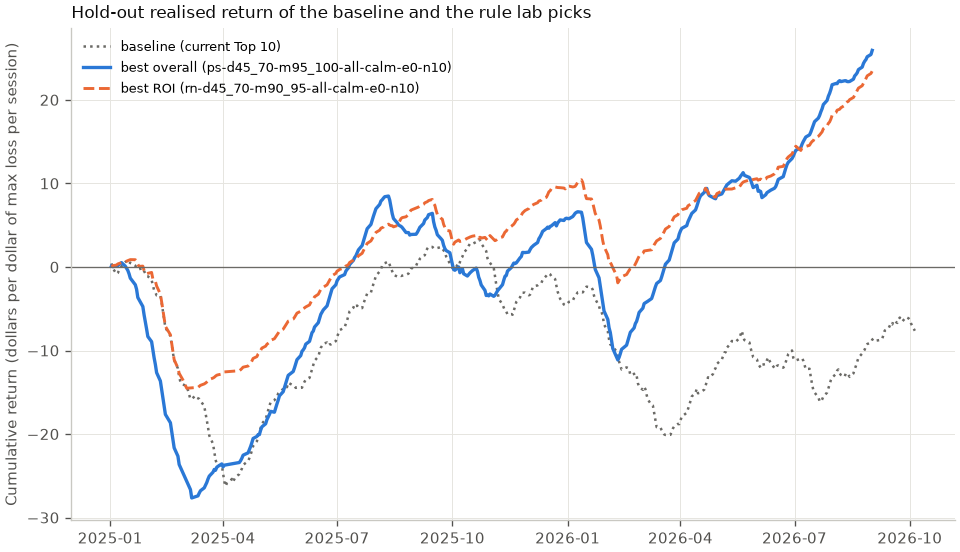
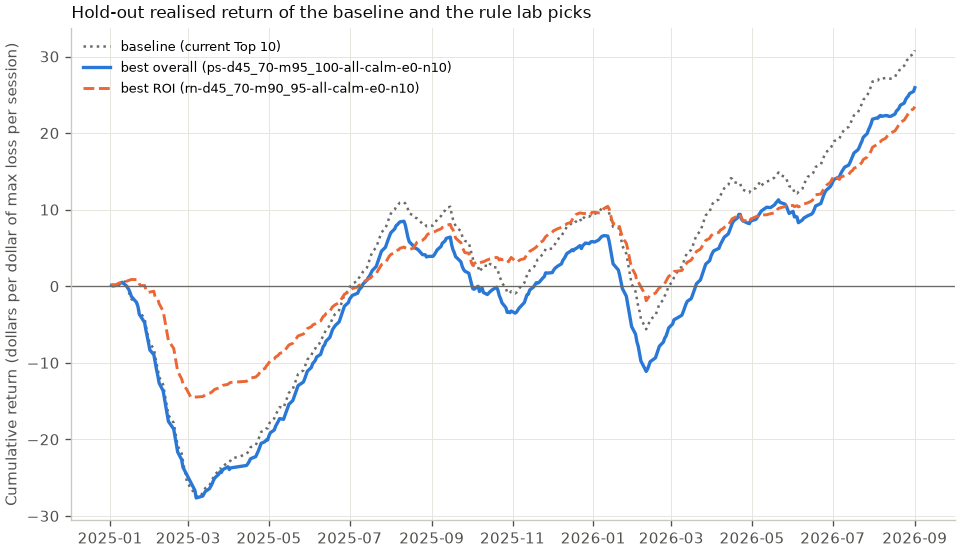
docs(decisions): re-run the entry-rule backtest and the rule lab for the new rule, add ADR 0015
backtest_entry_rule.py states in its intro, from the rule constants, when the rule changed
and why, and calls entry_top10 the live entry ranking. docs/backtest-entry-rule.md is
regenerated on the gold file of 2026-10-19 (read-only): 9,842 out-of-sample trades won
76.2% against 77.5% predicted, +10.3% per trade, -3.05% on capital at risk.
docs/rule-lab.md is regenerated from the existing score cache with the live rule as the
baseline and the previous rule beside it; every rule's numbers are unchanged. ADR 0015
records the decision and the dollar-weighted caveat.

diff --git a/scripts/backtest_entry_rule.py b/scripts/backtest_entry_rule.py
@@ -37,7 +37,7 @@ from oap.analytics.backtest import maps_from_frame
 from oap.analytics.config import DEFAULT_CONFIG
 from oap.analytics.io import QUOTE_SELECT, read_outcomes, read_table
 from oap.analytics.sample import SnapshotStatus
-from oap.analytics.scoring import ENTRY_RULE
+from oap.analytics.scoring import ENTRY_RULE, ENTRY_RULE_SINCE, PREVIOUS_ENTRY_RULE
 from oap.analytics.strategy import (
     SETTLED_COLUMNS,
     backtest_session,
@@ -56,6 +56,12 @@ REQUIRED_TABLES: Final[tuple[str, ...]] = (
     "calibration_snapshot",
 )
 """Tables of the ``gold`` schema the backtest reads."""
+
+PREVIOUS_RULE_RESULT: Final = (
+    "10,458 out-of-sample trades from 2021-01-04 to 2026-10-05 that won 64.1% against 73.0% "
+    "predicted and returned -2.04% on capital at risk"
+)
+"""What this backtest measured for ``PREVIOUS_ENTRY_RULE`` on 2026-10-19, before the change."""
 
 EQUITY_IMAGE: Final = "img/strategy_equity.png"
 PROGRESS_EVERY: Final = 100
@@ -230,10 +236,27 @@ WORST_HEADERS: Final[tuple[str, ...]] = (
 )
 
 STRATEGY_LABELS: Final[dict[str, str]] = {
-    "entry": "the recommendation: `rank_entry` (the rule above)",
+    "entry": "the live entry ranking: `rank_entry` (the rule above)",
     "return": "`rank` (raw annualised return on max loss, without the entry guards)",
     "eligible_all": "every eligible spread, equal weight (the no-selection baseline)",
 }
+
+
+def rule_change_sentence(top_n: int) -> str:
+    """Say when and why the entry rule changed, from the rule constants.
+
+    Args:
+        top_n: Spreads per session of the backtest.
+
+    Returns:
+        One sentence.
+    """
+    return (
+        f"The rule changed on {ENTRY_RULE_SINCE.isoformat()}: until then `entry_top{top_n}` "
+        f'followed "{PREVIOUS_ENTRY_RULE}", which this backtest measured at '
+        f"{PREVIOUS_RULE_RESULT}, so the product moved to the rule above, the rule-lab rule that "
+        "held up on the 2025-2026 hold-out (`docs/rule-lab.md`)."
+    )
 
 
 def _overall_section(summary: BacktestSummary, index: _Index) -> str:
@@ -382,7 +405,8 @@ def render_markdown(summary: BacktestSummary) -> str:
         f"# Strategy backtest: the Top {summary.top_n} rule applied historically\n\n"
         f"`{entry}` takes, on every session, the spreads the live ranking would have listed "
         f'under "Top {summary.top_n} to enter": {ENTRY_RULE} Each session is scored by the '
-        "same code as the latest one, with only the calibration map that existed at the time.\n\n"
+        "same code as the latest one, with only the calibration map that existed at the time. "
+        f"{rule_change_sentence(summary.top_n)}\n\n"
         f"Sessions scored: {fmt_count(summary.sessions)} ({fmt_day(summary.first_session)} to "
         f"{fmt_day(summary.last_session)}); with at least one `{entry}` trade: "
         f"{fmt_count(summary.sessions_with_trades)}. Trades dropped as unsettled: "

diff --git a/tests/scripts/test_backtest_entry_rule.py b/tests/scripts/test_backtest_entry_rule.py
@@ -9,7 +9,7 @@ import pytest
 
 from oap.analytics.backtest import maps_to_frame, walk_forward_maps
 from oap.analytics.config import DEFAULT_CONFIG
-from oap.analytics.scoring import ENTRY_RULE, SPREAD_COLUMNS
+from oap.analytics.scoring import ENTRY_RULE, PREVIOUS_ENTRY_RULE, SPREAD_COLUMNS
 from oap.analytics.strategy import settle_trades, strategy_metrics, strategy_names
 from scripts import backtest_entry_rule as cli
 from tests.analytics.frames import lognormal_quotes, outcomes_frame, synthetic_predictions
@@ -92,6 +92,21 @@ def test_markdown_has_the_sections_in_order_and_states_the_rule() -> None:
     assert ENTRY_RULE in text
     assert "![Cumulative realised return](img/strategy_equity.png)" in text
     assert text.endswith("\n")
+
+
+def test_the_intro_says_when_and_why_the_rule_changed() -> None:
+    text = cli.render_markdown(_summary())
+    intro = text.split("\n\n")[1]
+    sentence = cli.rule_change_sentence(10)
+    assert sentence in intro
+    assert intro.index(ENTRY_RULE) < intro.index(sentence)
+    assert "2026-10-20" in sentence
+    assert PREVIOUS_ENTRY_RULE in sentence
+    assert "64.1%" in sentence
+    assert "`docs/rule-lab.md`" in sentence
+    assert "`entry_top10`" in sentence
+    assert "`entry_top5`" in cli.rule_change_sentence(5)
+    assert "recommend" not in text.lower()
 
 
 def test_the_overall_table_lists_the_three_strategies_with_intervals() -> None:

diff --git a/docs/rule-lab.md b/docs/rule-lab.md
@@ -1,18 +1,19 @@
 # Rule lab: put credit spread selection rules on a hold-out
 
-1,600 candidate rules for choosing put credit spreads were run through the walk-forward backtest of the entry rule. Each was ranked on the dev years (2021-2024) and is reported on the hold-out (2025-2026), which no choice looked at. The baseline is the current Top 10 rule: rank by annualised return on max loss at the mid credit.
+1,600 candidate rules for choosing put credit spreads were run through the walk-forward backtest of the entry rule. Each was ranked on the dev years (2021-2024) and is reported on the hold-out (2025-2026), which no choice looked at. The baseline is the Top 10 rule the product uses since 2026-10-20: rank by annualised natural return with the POP shrunk halfway toward the market-implied POP; 45 to 69 days to expiry; short strike from 95% to below 100% of the close; top 10 per session, after every entry guard. The previous Top 10 rule (`rm-dany-many-all-any-e0-n10`) ranked every guarded spread by annualised return on max loss at the mid credit, at any days to expiry and moneyness.
 
 ## Headline picks (hold-out)
 
 | Pick | Rule | Hold-out trades | Win rate | Predicted POP | Mean realised return (95% CI) | Total return on capital at risk | Sharpe per trade | Max drawdown ($1/session) | Max-loss rate |
 | --- | --- | ---: | ---: | ---: | ---: | ---: | ---: | ---: | ---: |
-| Baseline (current Top 10) | `rm-dany-many-all-any-e0-n10` | 4,338 | 63.3% | 70.7% | -1.83% (-10.43% to 5.68%) | -2.07% | -0.027 | 26.86 | 26.9% |
+| Baseline (current Top 10) | `ps-d45_70-m95_100-all-any-e0-n10` | 4,053 | 73.0% | 74.9% | 7.53% (-7.29% to 21.10%) | 3.02% | 0.129 | 28.11 | 18.8% |
+| Previous Top 10 (until 2026-10-19) | `rm-dany-many-all-any-e0-n10` | 4,338 | 63.3% | 70.7% | -1.83% (-10.43% to 5.68%) | -2.07% | -0.027 | 26.86 | 26.9% |
 | Best overall | `ps-d45_70-m95_100-all-calm-e0-n10` | 3,854 | 72.8% | 75.0% | 7.18% (-8.95% to 21.20%) | 2.69% | 0.123 | 28.17 | 18.6% |
 | Best ROI | `rn-d45_70-m90_95-all-calm-e0-n10` | 3,799 | 84.4% | 83.0% | 6.04% (-6.35% to 14.93%) | 3.14% | 0.153 | 15.39 | 9.1% |
 
-**Best overall: `ps-d45_70-m95_100-all-calm-e0-n10`.** Rank by annualised natural return with the POP shrunk halfway toward the market-implied POP; 45 to 69 days to expiry; short strike from 95% to below 100% of the close; only when the near-the-money IV rose less than 20% over 5 sessions; top 10 per session, after every entry guard. It has the highest dev Sharpe per trade of every rule with enough dev trades. On dev it made 5,335 trades with a Sharpe per trade of 0.244 and a mean realised return of 12.30% (baseline -0.028 and -1.83%). On the hold-out it made 3,854 trades, won 72.8% against a predicted 75.0%, and returned 7.18% (-8.95% to 21.20%) per trade and 2.69% on capital at risk (baseline -1.83% and -2.07%). Its hold-out interval includes zero, so a positive mean return is not established at 95% on the hold-out alone.
+**Best overall: `ps-d45_70-m95_100-all-calm-e0-n10`.** Rank by annualised natural return with the POP shrunk halfway toward the market-implied POP; 45 to 69 days to expiry; short strike from 95% to below 100% of the close; only when the near-the-money IV rose less than 20% over 5 sessions; top 10 per session, after every entry guard. It has the highest dev Sharpe per trade of every rule with enough dev trades. On dev it made 5,335 trades with a Sharpe per trade of 0.244 and a mean realised return of 12.30% (baseline 0.236 and 12.27%). On the hold-out it made 3,854 trades, won 72.8% against a predicted 75.0%, and returned 7.18% (-8.95% to 21.20%) per trade and 2.69% on capital at risk (baseline 7.53% and 3.02%). Its hold-out interval includes zero, so a positive mean return is not established at 95% on the hold-out alone.
 
-**Best ROI: `rn-d45_70-m90_95-all-calm-e0-n10`.** Rank by annualised calibrated return on max loss at the natural credit; 45 to 69 days to expiry; short strike from 90% to below 95% of the close; only when the near-the-money IV rose less than 20% over 5 sessions; top 10 per session, after every entry guard. It has the highest dev mean realised return among those rules whose dev drawdown is below the median of all rules (33.13). On dev it made 5,238 trades with a Sharpe per trade of 0.179 and a mean realised return of 5.76% (baseline -0.028 and -1.83%). On the hold-out it made 3,799 trades, won 84.4% against a predicted 83.0%, and returned 6.04% (-6.35% to 14.93%) per trade and 3.14% on capital at risk (baseline -1.83% and -2.07%). Its hold-out interval includes zero, so a positive mean return is not established at 95% on the hold-out alone.
+**Best ROI: `rn-d45_70-m90_95-all-calm-e0-n10`.** Rank by annualised calibrated return on max loss at the natural credit; 45 to 69 days to expiry; short strike from 90% to below 95% of the close; only when the near-the-money IV rose less than 20% over 5 sessions; top 10 per session, after every entry guard. It has the highest dev mean realised return among those rules whose dev drawdown is below the median of all rules (33.13). On dev it made 5,238 trades with a Sharpe per trade of 0.179 and a mean realised return of 5.76% (baseline 0.236 and 12.27%). On the hold-out it made 3,799 trades, won 84.4% against a predicted 83.0%, and returned 6.04% (-6.35% to 14.93%) per trade and 3.14% on capital at risk (baseline 7.53% and 3.02%). Its hold-out interval includes zero, so a positive mean return is not established at 95% on the hold-out alone.
 
 Hold-out figures are per trade on max loss at the natural fill, held to expiry; the interval resamples expiration dates. Drawdowns put one dollar of maximum loss on each session, split across its trades.
 
@@ -32,15 +33,16 @@ Ranked by dev Sharpe per trade among the 1,600 rules with at least 400 dev trade
 | 8 | `rn-d45_70-many-all-any-e0-n10` | 5,826 | 0.223 | 11.83% | 47.72 | 4,071 | 71.8% | 73.1% | 8.07% (-4.02% to 22.13%) | 5.21% | 0.135 | 28.37 |
 | 9 | `ps-d45_70-m95_100-all-up-e0-n10` | 4,864 | 0.213 | 10.64% | 38.14 | 3,387 | 70.3% | 75.6% | 1.95% (-17.67% to 19.13%) | -2.89% | 0.033 | 27.70 |
 | 10 | `ps-d45_70-m95_100-all-upcalm-e0-n10` | 4,412 | 0.210 | 10.36% | 34.87 | 3,254 | 69.9% | 75.9% | 1.30% (-17.59% to 19.92%) | -3.30% | 0.022 | 27.35 |
-| baseline | `rm-dany-many-all-any-e0-n10` | 6,120 | -0.028 | -1.83% | 46.70 | 4,338 | 63.3% | 70.7% | -1.83% (-10.43% to 5.68%) | -2.07% | -0.027 | 26.86 |
+| baseline | `ps-d45_70-m95_100-all-any-e0-n10` | 5,789 | 0.236 | 12.27% | 45.06 | 4,053 | 73.0% | 74.9% | 7.53% (-7.29% to 21.10%) | 3.02% | 0.129 | 28.11 |
+| Previous Top 10 (until 2026-10-19) | `rm-dany-many-all-any-e0-n10` | 6,120 | -0.028 | -1.83% | 46.70 | 4,338 | 63.3% | 70.7% | -1.83% (-10.43% to 5.68%) | -2.07% | -0.027 | 26.86 |
 
 ## Multiple-comparisons check
 
-Of 1,600 qualifying rules, 817 beat the baseline's dev Sharpe of -0.028; of those, 706 also beat its hold-out Sharpe of -0.027. The median dev rule (`kg-d7_21-m95_100-all-ivr-e10-n10`, dev Sharpe -0.026) has a hold-out Sharpe of -0.034. A rule that leads on dev and falls back on the hold-out is what searching many rules on the same data produces, so the hold-out column, not the dev ranking, is the estimate to quote.
+Of 1,600 qualifying rules, 1 beat the baseline's dev Sharpe of 0.236; of those, 0 also beat its hold-out Sharpe of 0.129. The median dev rule (`kg-d7_21-m95_100-all-ivr-e10-n10`, dev Sharpe -0.026) has a hold-out Sharpe of -0.034. A rule that leads on dev and falls back on the hold-out is what searching many rules on the same data produces, so the hold-out column, not the dev ranking, is the estimate to quote.
 
 ## Protocol
 
-Every eligible spread of every session from 2021-01-04 to 2026-10-05 was scored once by the live scoring path with the walk-forward calibration map of its year (fitted only on expirations before 1 January) and settled at expiry: 919,631 spreads, of which 567,619 pass every entry guard. Each rule chooses only among those guarded spreads: its gates (days to expiry, short-strike moneyness, regime, natural credit over fair credit), then its ranking (ties broken by the live entry rank), then at most one spread per underlying and expiry when asked, then the top 10 per session. 1,600 of the 1,600 grid rules were evaluated (24.3s). A trade belongs to the period of its trade date's year: dev is 2021-2024, the hold-out is 2025-2026. Rules are ranked on dev only, by Sharpe per trade, among those with at least 400 dev trades and a finite dev drawdown; the best ROI pick is the highest dev mean realised return among those whose dev drawdown is below the median of all rules. The hold-out was not used to choose anything. The baseline is the current Top 10 rule (`rm-dany-many-all-any-e0-n10`), which reproduces the live `entry_top10` selection. Every result is in `sweep.csv` in the lab directory.
+Every eligible spread of every session from 2021-01-04 to 2026-10-05 was scored once by the live scoring path with the walk-forward calibration map of its year (fitted only on expirations before 1 January) and settled at expiry: 919,631 spreads, of which 567,619 pass every entry guard. Each rule chooses only among those guarded spreads: its gates (days to expiry, short-strike moneyness, regime, natural credit over fair credit), then its ranking (ties broken by the live entry rank), then at most one spread per underlying and expiry when asked, then the top 10 per session. 1,600 of the 1,600 grid rules were evaluated (25.0s). A trade belongs to the period of its trade date's year: dev is 2021-2024, the hold-out is 2025-2026. Rules are ranked on dev only, by Sharpe per trade, among those with at least 400 dev trades and a finite dev drawdown; the best ROI pick is the highest dev mean realised return among those whose dev drawdown is below the median of all rules. The hold-out was not used to choose anything. The baseline is the current Top 10 rule (`ps-d45_70-m95_100-all-any-e0-n10`), which reproduces the live `entry_top10` selection; the previous Top 10 rule (`rm-dany-many-all-any-e0-n10`) is shown next to it. Every result is in `sweep.csv` in the lab directory.
 
 ## Hold-out equity
 

diff --git a/docs/backtest-entry-rule.md b/docs/backtest-entry-rule.md
@@ -1,16 +1,16 @@
 # Strategy backtest: the Top 10 rule applied historically
 
-`entry_top10` takes, on every session, the spreads the live ranking would have listed under "Top 10 to enter": Passes every guard (eligible, calibrated POP ≥ 65%, credit ≥ $0.25, natural credit ≥ 50% of mid with positive natural edge, inside quoted strikes, no tail flags), ranked by annualised return on max loss, then reward/risk. Each session is scored by the same code as the latest one, with only the calibration map that existed at the time.
+`entry_top10` takes, on every session, the spreads the live ranking would have listed under "Top 10 to enter": Passes every guard (eligible, calibrated POP ≥ 65%, credit ≥ $0.25, natural credit ≥ 50% of mid with positive natural edge, inside quoted strikes, no tail flags), 45 to 69 days to expiry, short strike 95% to below 100% of the close, ranked by annualised natural return with the POP shrunk halfway toward the market-implied POP, then annualised return on max loss and reward/risk. Each session is scored by the same code as the latest one, with only the calibration map that existed at the time. The rule changed on 2026-10-20: until then `entry_top10` followed "Passes every guard (eligible, calibrated POP ≥ 65%, credit ≥ $0.25, natural credit ≥ 50% of mid with positive natural edge, inside quoted strikes, no tail flags), ranked by annualised return on max loss, then reward/risk.", which this backtest measured at 10,458 out-of-sample trades from 2021-01-04 to 2026-10-05 that won 64.1% against 73.0% predicted and returned -2.04% on capital at risk, so the product moved to the rule above, the rule-lab rule that held up on the 2025-2026 hold-out (`docs/rule-lab.md`).
 
-Sessions scored: 1,047 (2021-01-04 to 2026-10-05); with at least one `entry_top10` trade: 1,047. Trades dropped as unsettled: 0. Out-of-sample trades: `entry_top10` 10,458, `return_top10` 10,470, `eligible_all` 919,631.
+Sessions scored: 1,047 (2021-01-04 to 2026-10-05); with at least one `entry_top10` trade: 991. Trades dropped as unsettled: 0. Out-of-sample trades: `entry_top10` 9,842, `return_top10` 10,470, `eligible_all` 919,631.
 
 ## Out of sample, overall
 
-`entry_top10` is the recommendation: `rank_entry` (the rule above); `return_top10` is the top 10 by `rank` (raw annualised return on max loss, without the entry guards); `eligible_all` is every eligible spread, equal weight (the no-selection baseline).
+`entry_top10` is the live entry ranking: `rank_entry` (the rule above); `return_top10` is the top 10 by `rank` (raw annualised return on max loss, without the entry guards); `eligible_all` is every eligible spread, equal weight (the no-selection baseline).
 
 | Strategy | Trades | Sessions | Win rate (95% CI) | Predicted POP | POP gap | Mean realised return (95% CI) | Mean predicted return | Total return on capital at risk | Median return | Worst trade | Max-loss rate | Sharpe per trade | Max drawdown ($1/trade) | Max drawdown ($1/session) | Avg DTE |
 | --- | ---: | ---: | ---: | ---: | ---: | ---: | ---: | ---: | ---: | ---: | ---: | ---: | ---: | ---: | ---: |
-| `entry_top10` | 10,458 | 1,047 | 64.1% (61.2% to 67.8%) | 73.0% | -8.9 pp | -1.8% (-6.0% to 3.3%) | 16.08% | -2.04% | 38.89% | -100.0% | 26.8% | -0.03 | 467.70 | 46.77 | 14.4 |
+| `entry_top10` | 9,842 | 991 | 76.2% (70.2% to 82.0%) | 77.5% | -1.3 pp | 10.3% (0.9% to 19.0%) | 12.97% | -3.05% | 35.14% | -100.0% | 15.6% | 0.19 | 450.58 | 45.06 | 54.3 |
 | `return_top10` | 10,470 | 1,047 | 62.5% (59.0% to 65.3%) | 70.3% | -7.8 pp | -5.1% (-10.0% to -0.7%) | 24.94% | -5.91% | 28.21% | -100.0% | 29.8% | -0.07 | 642.45 | 64.25 | 15.5 |
 | `eligible_all` | 919,631 | 1,047 | 82.8% (80.5% to 84.7%) | 85.6% | -2.7 pp | 0.5% (-2.0% to 2.5%) | 6.47% | -0.43% | 6.89% | -100.0% | 9.3% | 0.01 | 19457.08 | 23.76 | 32.5 |
 
@@ -20,43 +20,43 @@ Returns are on max loss over the holding period. The realised return fills at th
 
 | Year | Trades | Sessions | Win rate | Predicted POP | POP gap | Mean realised return | Mean predicted return | Total return on capital at risk | Max-loss rate | Max drawdown ($1/trade) |
 | --- | ---: | ---: | ---: | ---: | ---: | ---: | ---: | ---: | ---: | ---: |
-| 2021 | 1,480 | 148 | 66.8% | 80.7% | -13.9 pp | 2.25% | 29.94% | -0.73% | 24.2% | 103.69 |
-| 2022 | 1,440 | 144 | 46.1% | 77.9% | -31.8 pp | -27.52% | 30.26% | -26.32% | 47.7% | 407.10 |
-| 2023 | 1,460 | 146 | 75.8% | 69.1% | +6.7 pp | 12.84% | 5.65% | 10.57% | 15.5% | 61.62 |
-| 2024 | 1,740 | 174 | 69.1% | 71.6% | -2.4 pp | 3.64% | 9.87% | 9.48% | 21.3% | 104.00 |
-| 2025 | 2,478 | 249 | 62.5% | 70.9% | -8.4 pp | -1.94% | 12.94% | -5.05% | 27.8% | 268.58 |
-| 2026 | 1,860 | 186 | 64.4% | 70.4% | -6.1 pp | -1.69% | 12.27% | 0.81% | 25.6% | 177.47 |
+| 2021 | 1,370 | 137 | 78.0% | 83.3% | -5.4 pp | 18.13% | 26.81% | -7.45% | 13.2% | 124.07 |
+| 2022 | 1,334 | 134 | 54.3% | 83.9% | -29.5 pp | -16.51% | 24.28% | -36.32% | 32.3% | 326.52 |
+| 2023 | 1,368 | 139 | 87.1% | 73.4% | +13.7 pp | 21.15% | 3.69% | 19.43% | 6.8% | 50.35 |
+| 2024 | 1,717 | 174 | 90.7% | 77.2% | +13.4 pp | 22.86% | 7.13% | 21.45% | 3.7% | 8.93 |
+| 2025 | 2,413 | 243 | 71.0% | 75.4% | -4.4 pp | 3.76% | 10.22% | -0.94% | 21.1% | 280.72 |
+| 2026 | 1,640 | 164 | 75.9% | 74.2% | +1.7 pp | 13.08% | 10.09% | 9.36% | 15.4% | 158.78 |
 
 ## By underlying (`entry_top10`)
 
 | Underlying | Trades | Sessions | Win rate | Predicted POP | POP gap | Mean realised return | Mean predicted return | Total return on capital at risk | Max-loss rate | Max drawdown ($1/trade) |
 | --- | ---: | ---: | ---: | ---: | ---: | ---: | ---: | ---: | ---: | ---: |
-| AAPL | 522 | 394 | 66.7% | 73.7% | -7.1 pp | 0.48% | 17.13% | 3.51% | 25.7% | 30.45 |
-| AMD | 2,337 | 865 | 63.9% | 72.9% | -9.0 pp | -0.97% | 16.58% | 4.11% | 26.4% | 158.49 |
-| AMZN | 869 | 552 | 61.2% | 72.5% | -11.3 pp | -5.22% | 15.67% | -6.18% | 28.0% | 74.58 |
-| DIA | 92 | 87 | 66.3% | 74.5% | -8.2 pp | -5.04% | 15.07% | -5.34% | 28.3% | 12.15 |
-| GOOGL | 741 | 450 | 63.7% | 74.0% | -10.3 pp | -3.30% | 16.32% | -2.13% | 22.7% | 46.15 |
-| META | 857 | 477 | 61.3% | 71.1% | -9.8 pp | -5.44% | 13.06% | -6.96% | 29.2% | 82.38 |
-| MSFT | 387 | 307 | 68.5% | 73.5% | -5.1 pp | 0.62% | 16.05% | 5.51% | 23.0% | 24.37 |
-| NVDA | 1,838 | 785 | 68.4% | 73.4% | -5.0 pp | 3.46% | 16.48% | 10.88% | 24.6% | 109.39 |
-| SPY | 166 | 125 | 68.7% | 74.5% | -5.8 pp | 4.58% | 13.33% | 8.05% | 20.5% | 14.91 |
-| TSLA | 2,598 | 824 | 61.7% | 72.8% | -11.1 pp | -4.70% | 16.35% | -9.15% | 30.3% | 196.71 |
-| XLF | 51 | 38 | 72.5% | 81.4% | -8.9 pp | -3.17% | 20.37% | 2.67% | 17.6% | 8.04 |
+| AAPL | 947 | 430 | 67.9% | 77.7% | -9.8 pp | 3.29% | 16.53% | 2.32% | 20.7% | 81.19 |
+| AMD | 179 | 78 | 84.9% | 75.6% | +9.3 pp | 32.45% | 19.41% | 29.32% | 5.6% | 10.57 |
+| AMZN | 1,117 | 453 | 61.2% | 76.7% | -15.4 pp | -4.97% | 18.14% | -24.36% | 27.8% | 160.52 |
+| DIA | 324 | 141 | 79.0% | 82.8% | -3.8 pp | 4.28% | 11.99% | 7.09% | 12.3% | 24.23 |
+| GOOGL | 610 | 351 | 73.0% | 75.0% | -2.1 pp | 11.97% | 15.74% | -13.01% | 18.2% | 60.62 |
+| META | 1,353 | 333 | 75.0% | 71.4% | +3.7 pp | 14.20% | 10.77% | 6.76% | 19.3% | 175.85 |
+| MSFT | 832 | 394 | 63.6% | 75.0% | -11.4 pp | -2.79% | 13.48% | -3.56% | 25.1% | 120.32 |
+| NVDA | 807 | 248 | 87.9% | 74.6% | +13.2 pp | 35.01% | 16.71% | 33.15% | 6.2% | 20.65 |
+| SPY | 3,452 | 766 | 83.7% | 81.6% | +2.1 pp | 11.35% | 9.34% | 10.09% | 9.1% | 124.15 |
+| TSLA | 181 | 45 | 80.1% | 72.4% | +7.7 pp | 24.68% | 15.15% | 29.71% | 16.0% | 28.58 |
+| XLF | 40 | 22 | 80.0% | 83.8% | -3.8 pp | 16.28% | 12.48% | 7.87% | 5.0% | 2.49 |
 
 ## Worst 10 trades (`entry_top10`, out of sample)
 
 | Session | Underlying | Expiration | Short/long | Natural credit | POP calibrated | Settlement close | Payoff | Realised return |
 | --- | --- | --- | ---: | ---: | ---: | ---: | ---: | ---: |
-| 2021-01-04 | AMD | 2021-01-15 | 90.5/88.5 | 0.69 | 83.4% | 88.21 | -1.31 | -100.0% |
-| 2021-01-04 | AMZN | 2021-01-15 | 3185/3125 | 22.65 | 74.5% | 3104.25 | -37.35 | -100.0% |
-| 2021-01-08 | TSLA | 2021-01-22 | 880/860 | 9.40 | 66.8% | 846.64 | -10.60 | -100.0% |
-| 2021-01-11 | AMD | 2021-01-22 | 95.5/93.5 | 0.77 | 74.5% | 92.79 | -1.23 | -100.0% |
-| 2021-01-11 | AMD | 2021-01-22 | 97/93.5 | 1.49 | 74.5% | 92.79 | -2.01 | -100.0% |
-| 2021-01-11 | AMD | 2021-01-22 | 97/95.5 | 0.66 | 69.5% | 92.79 | -0.84 | -100.0% |
-| 2021-01-13 | AMD | 2021-01-29 | 88/86.5 | 0.52 | 83.4% | 85.64 | -0.98 | -100.0% |
-| 2021-01-13 | AMD | 2021-01-29 | 90/86.5 | 1.38 | 74.5% | 85.64 | -2.12 | -100.0% |
-| 2021-01-13 | AMD | 2021-01-29 | 90/88 | 0.80 | 74.5% | 85.64 | -1.20 | -100.0% |
-| 2021-01-13 | NVDA | 2021-01-29 | 530/520 | 3.40 | 83.4% | 519.59 | -6.60 | -100.0% |
+| 2021-01-20 | AAPL | 2021-03-19 | 127.5/120 | 2.50 | 83.4% | 119.99 | -5.00 | -100.0% |
+| 2021-01-20 | AAPL | 2021-03-19 | 127.5/122.5 | 1.75 | 83.4% | 119.99 | -3.25 | -100.0% |
+| 2021-01-20 | AAPL | 2021-03-19 | 130/120 | 3.65 | 79.1% | 119.99 | -6.35 | -100.0% |
+| 2021-01-20 | AAPL | 2021-03-19 | 130/125 | 2.05 | 74.5% | 119.99 | -2.95 | -100.0% |
+| 2021-01-20 | AAPL | 2021-03-19 | 130/127.5 | 1.05 | 74.5% | 119.99 | -1.45 | -100.0% |
+| 2021-01-22 | AAPL | 2021-03-19 | 137.5/130 | 3.15 | 74.5% | 119.99 | -4.35 | -100.0% |
+| 2021-01-22 | AAPL | 2021-03-19 | 137.5/132.5 | 2.15 | 74.5% | 119.99 | -2.85 | -100.0% |
+| 2021-01-22 | AMZN | 2021-03-19 | 3160/3095 | 22.25 | 83.4% | 3074.96 | -42.75 | -100.0% |
+| 2021-01-22 | AMZN | 2021-03-19 | 3290/3095 | 82.20 | 74.5% | 3074.96 | -112.80 | -100.0% |
+| 2021-01-22 | AMZN | 2021-03-19 | 3290/3160 | 57.65 | 72.3% | 3074.96 | -72.35 | -100.0% |
 
 ![Cumulative realised return](img/strategy_equity.png)
 

diff --git a/docs/decisions/0015-entry-rule-from-the-rule-lab.md b/docs/decisions/0015-entry-rule-from-the-rule-lab.md
@@ -1,0 +1,27 @@
+# 0015. The Top 10 to enter uses the rule that held up on the rule lab hold-out
+
+Status: Accepted (Phase 3)
+Date: 2026-10-20
+
+## Context
+
+The "Top 10 to enter" ranking (`rank_entry`, ADR 0013) took every spread that passes the entry guards and ordered it by annualised return on max loss at the mid credit, at any days to expiry and any moneyness. The one-time backtest of that rule (`docs/backtest-entry-rule.md`, run on 2026-10-19) lost money out of sample: 10,458 trades from 2021 to 2026 won 64.1% against 73.0% predicted and returned -2.04% on capital at risk.
+
+The rule lab (`docs/rule-lab.md`) scored every eligible spread of every session once with the walk-forward map of its year, swept 1,600 selection rules, ranked them on 2021-2024 by Sharpe per trade and reported them on a 2025-2026 hold-out that no choice looked at. The best dev rule, `ps-d45_70-m95_100-all-calm-e0-n10`, needs a regime feature (the five-session change of the near-the-money IV); the second, `ps-d45_70-m95_100-all-any-e0-n10`, is the same rule without it. On the hold-out the second made 4,053 trades, won 73.0% against 74.9% predicted, returned +7.53% per trade (95% interval -7.29% to +21.10%) and +3.02% on capital at risk, with a Sharpe per trade of 0.129 and 18.8% of trades at the maximum loss. The old rule, on the same hold-out, returned -1.83% per trade and -2.07% on capital at risk.
+
+## Decision
+
+From 2026-10-20 `rank_entry` follows `ps-d45_70-m95_100-all-any-e0-n10`: every entry guard, then 45 to 69 days to expiry and a short strike from 95% to below 100% of the close, ordered by `score_entry`, the annualised two-outcome return at the natural credit with the calibrated probability of profit shrunk halfway toward the price-implied one (`q = 0.5 p + 0.5 pop_implied`, `b = c_n / (W - c_n)`, score `annualise(q b - (1 - q), years)`). Ties break by the old order (annualised return at the mid, then reward to risk). The bands and the ranking are `AnalyticsConfig` fields (`entry_dte_band`, `entry_moneyness_band`, `entry_rank`).
+
+- One implementation. The rankings live in `oap.analytics.ranking`, which both `oap.analytics.scoring` and the rule lab import; the guard (`entry_guard`) and the tie-break (`entry_tiebreak`) live in `scoring` and the lab uses them. A test scores synthetic sessions and checks that `rank_entry` reproduces the lab's selection of the same rule for several top-N.
+- The lab no longer reads `rank_entry`. It used `rank_entry` as the guard and the tie-break; now that `rank_entry` carries the bands, the lab computes both from the scored columns, so a rule's candidates do not depend on the live rule. On the existing score cache the sweep reproduces the previous `sweep.csv` to 1e-12 for all 1,600 rules.
+- The lab's baseline is the live rule (`live_rule(DEFAULT_CONFIG)`), and the previous rule is reported next to it.
+- The rule without the regime gate was chosen over the best dev rule because the product ranks one session at a time from gold and has no regime feature there; the two differ by 0.008 in dev Sharpe and by 0.006 in hold-out Sharpe, in favour of the ungated rule on the hold-out.
+- The product states the rule (`ENTRY_RULE`) and its hold-out evidence (`ENTRY_EVIDENCE`, one sentence with the date measured and a pointer to `docs/rule-lab.md`); the API returns both and the Spreads tab and the report print both.
+
+## Consequences
+
+- The backtest of the product's rule changes with it. Re-run on 2026-10-20 over 2021-2026, `entry_top10` made 9,842 out-of-sample trades in 991 of 1,047 sessions, won 76.2% (70.2% to 82.0%) against 77.5% predicted, with a mean realised return of +10.3% per trade (0.9% to 19.0%) but -3.05% in total on capital at risk, and 15.6% of trades at the maximum loss. The per-trade mean and the dollar total disagree because the total weights each trade by its maximum loss in dollars, so the large-dollar losses dominate it: AMZN returned -24.4% on capital at risk and GOOGL -13.0% (against a +12.0% mean per trade), and the year 2022 -36.3%. The hold-out figures in `ENTRY_EVIDENCE` are the ones no choice looked at; the full-period total is the warning that the dollar result depends on position sizing.
+- Some sessions have no spread in the bands, so the Top 10 can be shorter than ten or empty (56 of 1,047 historical sessions had none).
+- `spread_scores` gains `score_entry`. A gold file built before the change has no such column, so the API answers `503 gold_missing` on the spread routes until a nightly run built from the new code is pulled; the runbook says so.
+- The rule was chosen out of 1,600 on the same history, with one hold-out of under two years, and the hold-out interval of the mean includes zero. It is a measured selection rule, not trade advice, and it needs measuring again as the hold-out grows.
